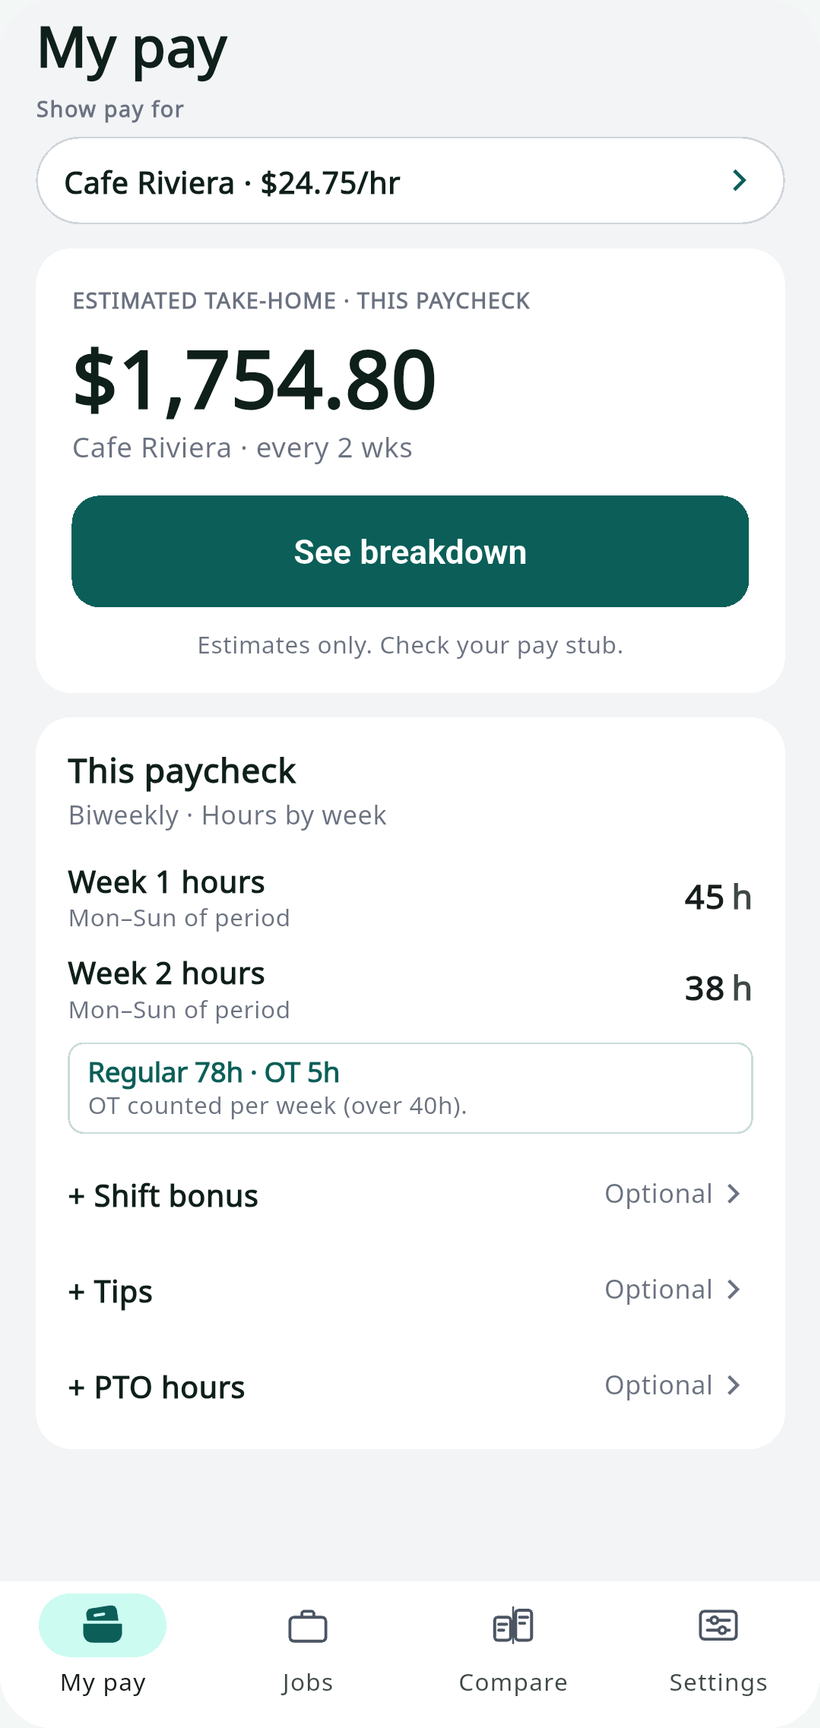
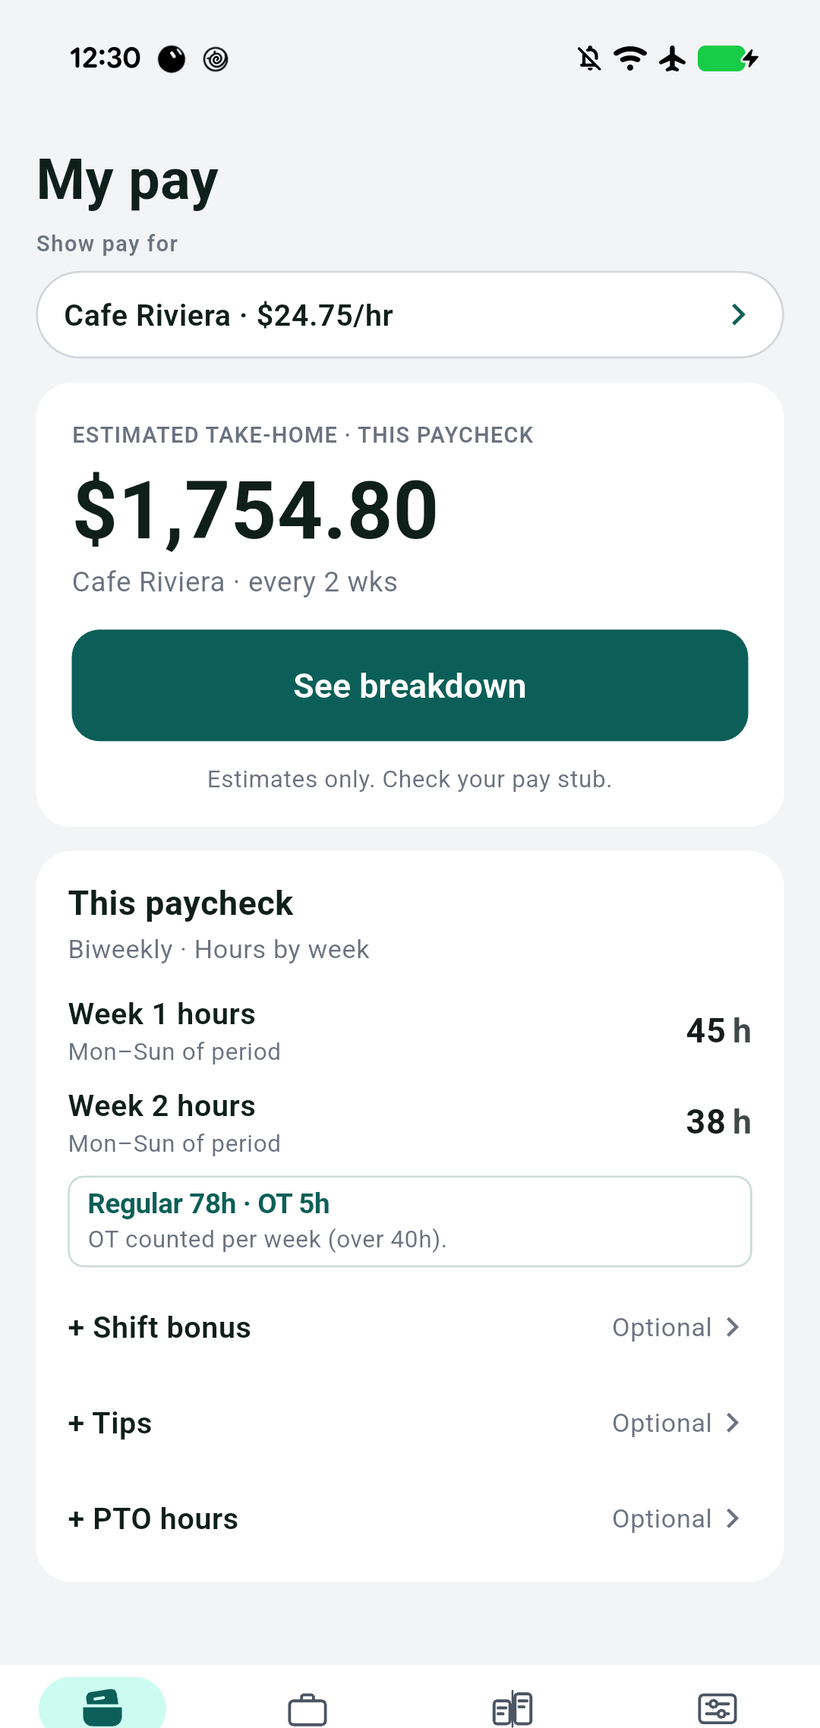
Site: locked site-apple-device-v1 Pixel chrome + Internal 18 ads-off shots
Refresh draft Direction A marketing pages with locked pack assets:
- Pixel .phone/.screen graphite punch-hole (status bar visible; salary top-aligned)
- Internal 18 Premium ads-off My pay A / B / breakdown / salary / welcome frames
- Keep frosted nav, pricing-region.js, subpage styles; /app/ untouched
Preview only — do not merge until Sopheak OK.

diff --git a/assets/apple.css b/assets/apple.css
@@ -1,4 +1,4 @@
-/* Paycheck Pocket · site-apple-v1 Direction A + Pixel device chrome */
+/* Paycheck Pocket · site-apple-device-v1 · Direction A page + Pixel device chrome */
 :root {
   --bg: #f5f5f7;
   --bg-white: #ffffff;
@@ -219,11 +219,12 @@ button { font-family: inherit; }
     0 40px 80px rgba(0, 0, 0, 0.18),
     0 12px 28px rgba(0, 0, 0, 0.10);
 }
-/* Pixel 8–family centered circular punch-hole (not Dynamic Island) */
+/* Pixel 8–family centered circular punch-hole (not Dynamic Island) —
+   overlays top-center of real Android status bar; time/Wi-Fi/cellular/battery stay readable L/R */
 .phone::before {
   content: "";
   position: absolute;
-  top: 18px; /* sits in top bezel / screen edge */
+  top: 17px; /* bezel + into status-bar band center */
   left: 50%;
   width: 11px;
   height: 11px;
